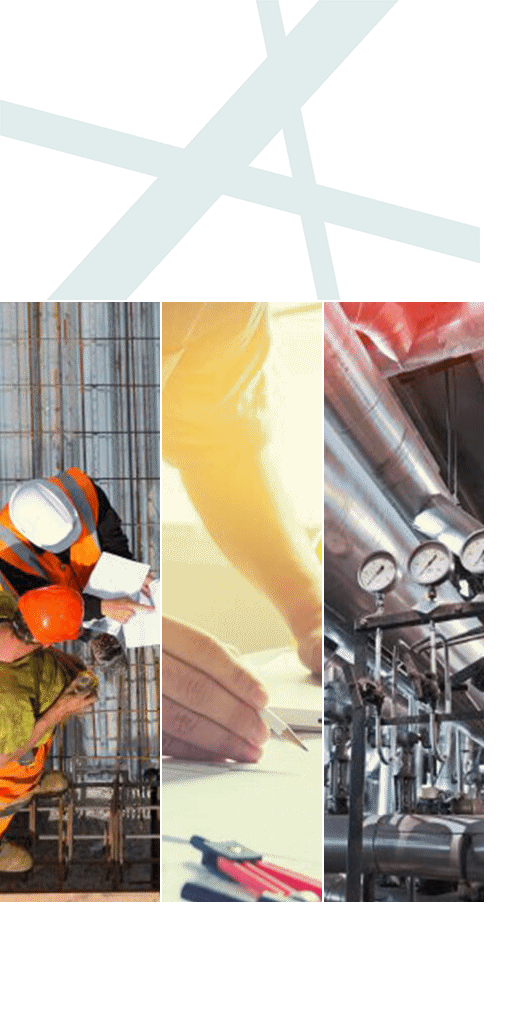
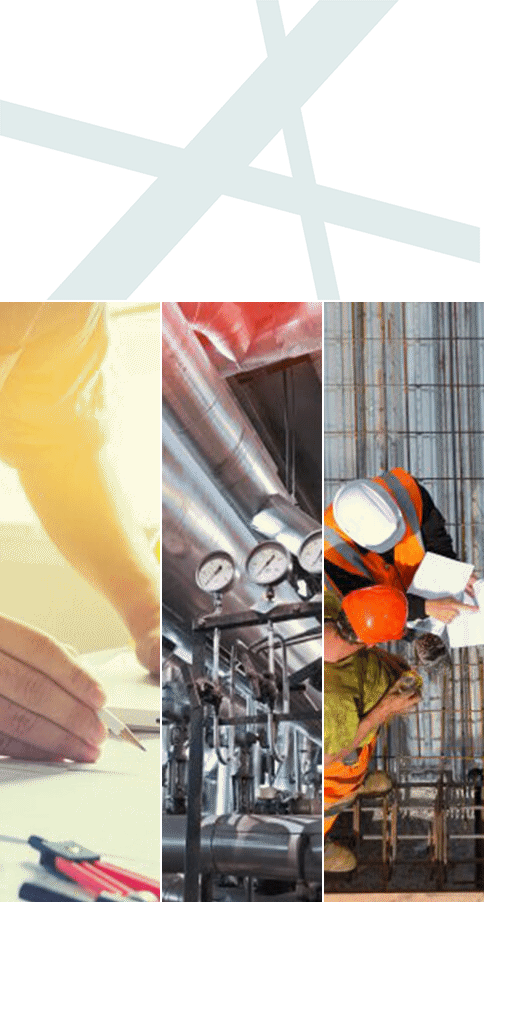
Add files via upload

diff --git a/projector_160x600.js b/projector_160x600.js
@@ -3,7 +3,7 @@
 var p; // shortcut to reference prototypes
 var lib={};var ss={};var img={};
 lib.ssMetadata = [
-		{name:"projector_160x600_atlas_", frames: [[162,302,160,600],[324,302,160,600],[0,302,160,600],[0,0,480,300]]}
+		{name:"projector_160x600_atlas_", frames: [[0,302,160,600],[162,302,160,600],[324,302,160,600],[0,0,480,300]]}
 ];
 
 
@@ -633,6 +633,47 @@ function getMCSymbolPrototype(symbol, nominalBounds, frameBounds) {
 }).prototype = getMCSymbolPrototype(lib.logo, new cjs.Rectangle(-67.7,199.4,86.3,18.3), null);
 
 
+(lib.btn = function(mode,startPosition,loop) {
+	this.initialize(mode,startPosition,loop,{});
+
+	// Layer_1
+	this.shape = new cjs.Shape();
+	this.shape.graphics.f("#FFFFFF").s().p("AAdAwIgJgXIgoAAIgIAXIgQAAIAjhfIATAAIAjBfgAAQALIgQgrIAAAAIgPArIAfAAg");
+	this.shape.setTransform(-53.8,239.4);
+
+	this.shape_1 = new cjs.Shape();
+	this.shape_1.graphics.f("#FFFFFF").s().p("AgPAxIgRgCIAAgNIAfABIALAAIAGgCQACgCABgDIAAgHIAAgIQAAAAAAgBQgBAAAAgBQAAAAgBAAQAAgBAAAAQgCgCgFAAIgXgCQgIgCgFgDQgFgCgCgGQgCgFABgIQAAgMAEgGQAEgHAIgCQAHgCALAAIARABIAOACIAAANIgNgBIgPAAIgKAAIgIACQAAAAgBABQAAAAAAABQgBAAAAABQAAAAAAABIgBAHIABAHQAAABAAAAQAAAAAAABQABAAAAAAQABABAAAAIAIACIAVACQAIABAFACQAEADACAEQACAFABAMQAAANgFAGQgDAHgIABQgHACgLAAg");
+	this.shape_1.setTransform(-65.4,239.4);
+
+	this.shape_2 = new cjs.Shape();
+	this.shape_2.graphics.f("#FFFFFF").s().p("AgHAwIAAhfIAPAAIAABfg");
+	this.shape_2.setTransform(-74.2,239.4);
+
+	this.shape_3 = new cjs.Shape();
+	this.shape_3.graphics.f("#FFFFFF").s().p("AgdAwIAAhfIARAAIAABRIAqAAIAAAOg");
+	this.shape_3.setTransform(-82,239.4);
+
+	this.shape_4 = new cjs.Shape();
+	this.shape_4.graphics.f("#FFFFFF").s().p("AggAwIAAhfIBAAAIAAAOIgvAAIAAAaIApAAIAAAOIgpAAIAAAbIAvAAIAAAOg");
+	this.shape_4.setTransform(-98.3,239.4);
+
+	this.shape_5 = new cjs.Shape();
+	this.shape_5.graphics.f("#FFFFFF").s().p("AgbAtQgIgDgCgKQgDgKAAgWQAAgVADgKQACgKAIgEQAJgEASAAQAUAAAIAEQAIAEACAKQADAKAAAVQAAAWgDAKQgCAKgIADQgIAEgUAAQgSAAgJgEgAgQghQgFACgBAGQgCAIAAARQAAATACAGQABAHAFACQAEABAMAAQANAAAFgBQAEgCABgHQACgGAAgTQAAgRgCgIQgBgGgEgCQgFgCgNABQgMgBgEACg");
+	this.shape_5.setTransform(-110.3,239.4);
+
+	this.shape_6 = new cjs.Shape();
+	this.shape_6.graphics.f("#FFFFFF").s().p("AgcAwIAAhfIAQAAIAABRIApAAIAAAOg");
+	this.shape_6.setTransform(-121,239.4);
+
+	this.shape_7 = new cjs.Shape();
+	this.shape_7.graphics.f("#EA322E").s().p("ApHC2QgEAAAAgHIAAlcQAAgIAEAAISPAAQAFAAgBAIIAAFcQABAHgFAAg");
+	this.shape_7.setTransform(-88.1,239.8);
+
+	this.timeline.addTween(cjs.Tween.get({}).to({state:[{t:this.shape_7},{t:this.shape_6},{t:this.shape_5},{t:this.shape_4},{t:this.shape_3},{t:this.shape_2},{t:this.shape_1},{t:this.shape}]}).wait(1));
+
+}).prototype = getMCSymbolPrototype(lib.btn, new cjs.Rectangle(-147,221.6,117.7,36.4), null);
+
+
 (lib.boxtrans2 = function(mode,startPosition,loop) {
 	this.initialize(mode,startPosition,loop,{});
 
@@ -815,54 +856,63 @@ if (loop == null) { loop = false; }	this.initialize(mode,startPosition,loop,{});
 
 	this.timeline.addTween(cjs.Tween.get(this.instance_7).wait(18).to({_off:false},0).wait(1).to({regX:-68.6,regY:-10.9,x:-354.2,y:10.6,alpha:0.774},0).wait(1).to({x:-313.1,alpha:0.798},0).wait(1).to({x:-274.2,alpha:0.819},0).wait(1).to({x:-237.5,alpha:0.84},0).wait(1).to({x:-203.1,alpha:0.859},0).wait(1).to({x:-170.8,alpha:0.878},0).wait(1).to({x:-140.8,alpha:0.894},0).wait(1).to({x:-113.1,alpha:0.91},0).wait(1).to({x:-87.5,alpha:0.924},0).wait(1).to({x:-64.2,alpha:0.938},0).wait(1).to({x:-43.1,alpha:0.949},0).wait(1).to({x:-24.2,alpha:0.96},0).wait(1).to({x:-7.5,alpha:0.969},0).wait(1).to({x:6.9,alpha:0.978},0).wait(1).to({x:19.1,alpha:0.984},0).wait(1).to({x:29.1,alpha:0.99},0).wait(1).to({x:36.9,alpha:0.994},0).wait(1).to({x:42.5,alpha:0.998},0).wait(1).to({x:45.8,alpha:0.999},0).wait(1).to({regX:0,regY:0,x:115.5,y:21.5,alpha:1},0).wait(57).to({x:-321.4},14,cjs.Ease.get(1)).to({_off:true},1).wait(141));
 
-	// logo
-	this.instance_8 = new lib.logo();
+	// btn
+	this.instance_8 = new lib.btn();
 	this.instance_8.parent = this;
-	this.instance_8.setTransform(121,-20.5,1.601,1.601);
+	this.instance_8.setTransform(-5,236);
 	this.instance_8.alpha = 0;
+	this.instance_8._off = true;
 
-	this.timeline.addTween(cjs.Tween.get(this.instance_8).to({y:224.5,alpha:1},18,cjs.Ease.get(1)).wait(221).to({alpha:0},11).wait(1));
+	this.timeline.addTween(cjs.Tween.get(this.instance_8).wait(9).to({_off:false},0).to({x:170,y:233,alpha:1},10,cjs.Ease.get(1)).wait(220).to({alpha:0},11).wait(1));
+
+	// logo
+	this.instance_9 = new lib.logo();
+	this.instance_9.parent = this;
+	this.instance_9.setTransform(121,-20.5,1.601,1.601);
+	this.instance_9.alpha = 0;
+
+	this.timeline.addTween(cjs.Tween.get(this.instance_9).to({y:224.5,alpha:1},18,cjs.Ease.get(1)).wait(221).to({alpha:0},11).wait(1));
 
 	// Layer_2
-	this.instance_9 = new lib.logobg();
-	this.instance_9.parent = this;
-	this.instance_9.setTransform(49.5,337.5);
+	this.instance_10 = new lib.logobg();
+	this.instance_10.parent = this;
+	this.instance_10.setTransform(49.5,337.5);
 
-	this.timeline.addTween(cjs.Tween.get(this.instance_9).to({_off:true},239).wait(12));
+	this.timeline.addTween(cjs.Tween.get(this.instance_10).to({_off:true},239).wait(12));
 
 	// A
-	this.instance_10 = new lib.A_1();
-	this.instance_10.parent = this;
-	this.instance_10.setTransform(130.8,141.1);
-	this.instance_10.alpha = 0;
+	this.instance_11 = new lib.A_1();
+	this.instance_11.parent = this;
+	this.instance_11.setTransform(130.8,141.1);
+	this.instance_11.alpha = 0;
 
-	this.timeline.addTween(cjs.Tween.get(this.instance_10).wait(1).to({regX:-71,regY:222.4,x:60.4,y:363.5,alpha:0.112},0).wait(1).to({x:60.9,alpha:0.224},0).wait(1).to({x:61.4,alpha:0.336},0).wait(1).to({x:62,alpha:0.448},0).wait(1).to({x:62.5,alpha:0.559},0).wait(1).to({x:63.1,alpha:0.67},0).wait(1).to({x:63.6,alpha:0.78},0).wait(1).to({x:64.2,alpha:0.89},0).wait(1).to({regX:0,regY:0,x:135.7,y:141.1,alpha:1},0).wait(1).to({regX:-71,regY:222.4,x:65.5,y:363.5},0).wait(1).to({x:66.3},0).wait(1).to({x:67},0).wait(1).to({x:67.8},0).wait(1).to({x:68.6},0).wait(1).to({x:69.3},0).wait(1).to({x:70.1},0).wait(1).to({x:70.8},0).wait(1).to({x:71.6},0).wait(1).to({x:72.3},0).wait(1).to({x:73.1},0).wait(1).to({x:73.8},0).wait(1).to({x:74.5},0).wait(1).to({x:75.3},0).wait(1).to({x:76},0).wait(1).to({x:76.7},0).wait(1).to({x:77.5},0).wait(1).to({x:78.2},0).wait(1).to({x:78.9},0).wait(1).to({x:79.6},0).wait(1).to({x:80.3},0).wait(1).to({x:81},0).wait(1).to({x:81.7},0).wait(1).to({x:82.4},0).wait(1).to({x:83.1},0).wait(1).to({x:83.8},0).wait(1).to({x:84.5},0).wait(1).to({x:85.2},0).wait(1).to({x:85.9},0).wait(1).to({x:86.6},0).wait(1).to({x:87.3},0).wait(1).to({x:87.9},0).wait(1).to({x:88.6},0).wait(1).to({x:89.3},0).wait(1).to({x:89.9},0).wait(1).to({x:90.6},0).wait(1).to({x:91.3},0).wait(1).to({x:91.9},0).wait(1).to({x:92.6},0).wait(1).to({x:93.2},0).wait(1).to({x:93.9},0).wait(1).to({x:94.5},0).wait(1).to({x:95.2},0).wait(1).to({x:95.8},0).wait(1).to({x:96.4},0).wait(1).to({x:97.1},0).wait(1).to({x:97.7},0).wait(1).to({x:98.3},0).wait(1).to({x:98.9},0).wait(1).to({x:99.5},0).wait(1).to({x:100.1},0).wait(1).to({x:100.8},0).wait(1).to({x:101.4},0).wait(1).to({x:102},0).wait(1).to({x:102.6},0).wait(1).to({x:103.2},0).wait(1).to({x:103.8},0).wait(1).to({x:104.3},0).wait(1).to({x:104.9},0).wait(1).to({x:105.5},0).wait(1).to({x:106.1},0).wait(1).to({x:106.7},0).wait(1).to({x:107.2},0).wait(1).to({x:107.8},0).wait(1).to({x:108.4},0).wait(1).to({x:108.9},0).wait(1).to({x:109.5},0).wait(1).to({x:110.1},0).wait(1).to({x:110.6},0).wait(1).to({x:111.2},0).wait(1).to({x:111.7},0).wait(1).to({x:112.3},0).wait(1).to({x:112.8},0).wait(1).to({x:113.3},0).wait(1).to({x:113.9},0).wait(1).to({x:114.4},0).wait(1).to({x:114.9},0).wait(1).to({x:115.5},0).wait(1).to({x:116},0).wait(1).to({x:116.5},0).wait(1).to({x:117},0).wait(1).to({x:117.5},0).wait(1).to({x:118},0).wait(1).to({x:118.5},0).wait(1).to({x:119},0).wait(1).to({x:119.5},0).wait(1).to({x:120},0).wait(1).to({x:120.5},0).wait(1).to({x:121},0).wait(1).to({x:121.5},0).wait(1).to({x:122},0).wait(1).to({x:122.4},0).wait(1).to({x:122.9},0).wait(1).to({x:123.4},0).wait(1).to({x:123.9},0).wait(1).to({x:124.3},0).wait(1).to({x:124.8},0).wait(1).to({x:125.2},0).wait(1).to({x:125.7},0).wait(1).to({x:126.2},0).wait(1).to({x:126.6},0).wait(1).to({x:127},0).wait(1).to({x:127.5},0).wait(1).to({x:127.9},0).wait(1).to({x:128.4},0).wait(1).to({x:128.8},0).wait(1).to({x:129.2},0).wait(1).to({x:129.6},0).wait(1).to({x:130.1},0).wait(1).to({x:130.5},0).wait(1).to({x:130.9},0).wait(1).to({x:131.3},0).wait(1).to({x:131.7},0).wait(1).to({x:132.1},0).wait(1).to({x:132.5},0).wait(1).to({x:132.9},0).wait(1).to({x:133.3},0).wait(1).to({x:133.7},0).wait(1).to({x:134.1},0).wait(1).to({x:134.5},0).wait(1).to({x:134.9},0).wait(1).to({x:135.3},0).wait(1).to({x:135.6},0).wait(1).to({x:136},0).wait(1).to({x:136.4},0).wait(1).to({x:136.7},0).wait(1).to({x:137.1},0).wait(1).to({x:137.5},0).wait(1).to({x:137.8},0).wait(1).to({x:138.2},0).wait(1).to({x:138.5},0).wait(1).to({x:138.9},0).wait(1).to({x:139.2},0).wait(1).to({x:139.6},0).wait(1).to({x:139.9},0).wait(1).to({x:140.2},0).wait(1).to({x:140.6},0).wait(1).to({x:140.9},0).wait(1).to({x:141.2},0).wait(1).to({x:141.5},0).wait(1).to({x:141.8},0).wait(1).to({x:142.2},0).wait(1).to({x:142.5},0).wait(1).to({x:142.8},0).wait(1).to({x:143.1},0).wait(1).to({x:143.4},0).wait(1).to({x:143.7},0).wait(1).to({x:144},0).wait(1).to({x:144.3},0).wait(1).to({x:144.6},0).wait(1).to({x:144.8},0).wait(1).to({x:145.1},0).wait(1).to({x:145.4},0).wait(1).to({x:145.7},0).wait(1).to({x:145.9},0).wait(1).to({x:146.2},0).wait(1).to({x:146.5},0).wait(1).to({x:146.7},0).wait(1).to({x:147},0).wait(1).to({x:147.2},0).wait(1).to({x:147.5},0).wait(1).to({x:147.7},0).wait(1).to({x:148},0).wait(1).to({x:148.2},0).wait(1).to({x:148.5},0).wait(1).to({x:148.7},0).wait(1).to({x:148.9},0).wait(1).to({x:149.2},0).wait(1).to({x:149.4},0).wait(1).to({x:149.6},0).wait(1).to({x:149.8},0).wait(1).to({x:150},0).wait(1).to({x:150.3},0).wait(1).to({x:150.5},0).wait(1).to({x:150.7},0).wait(1).to({x:150.9},0).wait(1).to({x:151.1},0).wait(1).to({x:151.3},0).wait(1).to({x:151.5},0).wait(1).to({x:151.6},0).wait(1).to({x:151.8},0).wait(1).to({x:152},0).wait(1).to({x:152.2},0).wait(1).to({x:152.4},0).wait(1).to({x:152.5},0).wait(1).to({x:152.7},0).wait(1).to({x:152.9},0).wait(1).to({x:153},0).wait(1).to({x:153.2},0).wait(1).to({x:153.4},0).wait(1).to({x:153.5},0).wait(1).to({x:153.7},0).wait(1).to({x:153.8},0).wait(1).to({x:153.9},0).wait(1).to({x:154.1},0).wait(1).to({x:154.2},0).wait(1).to({x:154.4},0).wait(1).to({x:154.5},0).wait(1).to({x:154.6},0).wait(1).to({x:154.7},0).wait(1).to({x:154.9},0).wait(1).to({x:155},0).wait(1).to({x:155.1},0).wait(1).to({x:155.2},0).wait(1).to({x:155.3},0).wait(1).to({x:155.4},0).wait(1).to({x:155.5},0).wait(1).to({x:155.6},0).wait(1).to({x:155.7},0).wait(1).to({x:155.8},0).wait(1).to({x:155.9},0).wait(1).to({x:156},0).wait(2).to({x:156.1},0).wait(1).to({x:156.2},0).wait(1).to({x:156.3},0).wait(2).to({x:156.4},0).wait(2).to({x:156.5},0).wait(1).to({x:156.6},0).wait(2).to({x:156.7},0).wait(3).to({x:156.8},0).wait(3).to({x:156.9},0).wait(1).to({regX:0,regY:0,x:227.9,y:141.1},0).wait(1).to({regX:-71,regY:222.4,x:156.9,y:363.5,alpha:0.826},0).wait(1).to({alpha:0.669},0).wait(1).to({alpha:0.529},0).wait(1).to({x:157,alpha:0.405},0).wait(1).to({alpha:0.298},0).wait(1).to({alpha:0.207},0).wait(1).to({alpha:0.132},0).wait(1).to({alpha:0.074},0).wait(1).to({alpha:0.033},0).wait(1).to({alpha:0.008},0).wait(1).to({regX:0,regY:0,x:228,y:141.1,alpha:0},0).wait(1));
+	this.timeline.addTween(cjs.Tween.get(this.instance_11).wait(1).to({regX:-71,regY:222.4,x:60.4,y:363.5,alpha:0.112},0).wait(1).to({x:60.9,alpha:0.224},0).wait(1).to({x:61.4,alpha:0.336},0).wait(1).to({x:62,alpha:0.448},0).wait(1).to({x:62.5,alpha:0.559},0).wait(1).to({x:63.1,alpha:0.67},0).wait(1).to({x:63.6,alpha:0.78},0).wait(1).to({x:64.2,alpha:0.89},0).wait(1).to({regX:0,regY:0,x:135.7,y:141.1,alpha:1},0).wait(1).to({regX:-71,regY:222.4,x:65.5,y:363.5},0).wait(1).to({x:66.3},0).wait(1).to({x:67},0).wait(1).to({x:67.8},0).wait(1).to({x:68.6},0).wait(1).to({x:69.3},0).wait(1).to({x:70.1},0).wait(1).to({x:70.8},0).wait(1).to({x:71.6},0).wait(1).to({x:72.3},0).wait(1).to({x:73.1},0).wait(1).to({x:73.8},0).wait(1).to({x:74.5},0).wait(1).to({x:75.3},0).wait(1).to({x:76},0).wait(1).to({x:76.7},0).wait(1).to({x:77.5},0).wait(1).to({x:78.2},0).wait(1).to({x:78.9},0).wait(1).to({x:79.6},0).wait(1).to({x:80.3},0).wait(1).to({x:81},0).wait(1).to({x:81.7},0).wait(1).to({x:82.4},0).wait(1).to({x:83.1},0).wait(1).to({x:83.8},0).wait(1).to({x:84.5},0).wait(1).to({x:85.2},0).wait(1).to({x:85.9},0).wait(1).to({x:86.6},0).wait(1).to({x:87.3},0).wait(1).to({x:87.9},0).wait(1).to({x:88.6},0).wait(1).to({x:89.3},0).wait(1).to({x:89.9},0).wait(1).to({x:90.6},0).wait(1).to({x:91.3},0).wait(1).to({x:91.9},0).wait(1).to({x:92.6},0).wait(1).to({x:93.2},0).wait(1).to({x:93.9},0).wait(1).to({x:94.5},0).wait(1).to({x:95.2},0).wait(1).to({x:95.8},0).wait(1).to({x:96.4},0).wait(1).to({x:97.1},0).wait(1).to({x:97.7},0).wait(1).to({x:98.3},0).wait(1).to({x:98.9},0).wait(1).to({x:99.5},0).wait(1).to({x:100.1},0).wait(1).to({x:100.8},0).wait(1).to({x:101.4},0).wait(1).to({x:102},0).wait(1).to({x:102.6},0).wait(1).to({x:103.2},0).wait(1).to({x:103.8},0).wait(1).to({x:104.3},0).wait(1).to({x:104.9},0).wait(1).to({x:105.5},0).wait(1).to({x:106.1},0).wait(1).to({x:106.7},0).wait(1).to({x:107.2},0).wait(1).to({x:107.8},0).wait(1).to({x:108.4},0).wait(1).to({x:108.9},0).wait(1).to({x:109.5},0).wait(1).to({x:110.1},0).wait(1).to({x:110.6},0).wait(1).to({x:111.2},0).wait(1).to({x:111.7},0).wait(1).to({x:112.3},0).wait(1).to({x:112.8},0).wait(1).to({x:113.3},0).wait(1).to({x:113.9},0).wait(1).to({x:114.4},0).wait(1).to({x:114.9},0).wait(1).to({x:115.5},0).wait(1).to({x:116},0).wait(1).to({x:116.5},0).wait(1).to({x:117},0).wait(1).to({x:117.5},0).wait(1).to({x:118},0).wait(1).to({x:118.5},0).wait(1).to({x:119},0).wait(1).to({x:119.5},0).wait(1).to({x:120},0).wait(1).to({x:120.5},0).wait(1).to({x:121},0).wait(1).to({x:121.5},0).wait(1).to({x:122},0).wait(1).to({x:122.4},0).wait(1).to({x:122.9},0).wait(1).to({x:123.4},0).wait(1).to({x:123.9},0).wait(1).to({x:124.3},0).wait(1).to({x:124.8},0).wait(1).to({x:125.2},0).wait(1).to({x:125.7},0).wait(1).to({x:126.2},0).wait(1).to({x:126.6},0).wait(1).to({x:127},0).wait(1).to({x:127.5},0).wait(1).to({x:127.9},0).wait(1).to({x:128.4},0).wait(1).to({x:128.8},0).wait(1).to({x:129.2},0).wait(1).to({x:129.6},0).wait(1).to({x:130.1},0).wait(1).to({x:130.5},0).wait(1).to({x:130.9},0).wait(1).to({x:131.3},0).wait(1).to({x:131.7},0).wait(1).to({x:132.1},0).wait(1).to({x:132.5},0).wait(1).to({x:132.9},0).wait(1).to({x:133.3},0).wait(1).to({x:133.7},0).wait(1).to({x:134.1},0).wait(1).to({x:134.5},0).wait(1).to({x:134.9},0).wait(1).to({x:135.3},0).wait(1).to({x:135.6},0).wait(1).to({x:136},0).wait(1).to({x:136.4},0).wait(1).to({x:136.7},0).wait(1).to({x:137.1},0).wait(1).to({x:137.5},0).wait(1).to({x:137.8},0).wait(1).to({x:138.2},0).wait(1).to({x:138.5},0).wait(1).to({x:138.9},0).wait(1).to({x:139.2},0).wait(1).to({x:139.6},0).wait(1).to({x:139.9},0).wait(1).to({x:140.2},0).wait(1).to({x:140.6},0).wait(1).to({x:140.9},0).wait(1).to({x:141.2},0).wait(1).to({x:141.5},0).wait(1).to({x:141.8},0).wait(1).to({x:142.2},0).wait(1).to({x:142.5},0).wait(1).to({x:142.8},0).wait(1).to({x:143.1},0).wait(1).to({x:143.4},0).wait(1).to({x:143.7},0).wait(1).to({x:144},0).wait(1).to({x:144.3},0).wait(1).to({x:144.6},0).wait(1).to({x:144.8},0).wait(1).to({x:145.1},0).wait(1).to({x:145.4},0).wait(1).to({x:145.7},0).wait(1).to({x:145.9},0).wait(1).to({x:146.2},0).wait(1).to({x:146.5},0).wait(1).to({x:146.7},0).wait(1).to({x:147},0).wait(1).to({x:147.2},0).wait(1).to({x:147.5},0).wait(1).to({x:147.7},0).wait(1).to({x:148},0).wait(1).to({x:148.2},0).wait(1).to({x:148.5},0).wait(1).to({x:148.7},0).wait(1).to({x:148.9},0).wait(1).to({x:149.2},0).wait(1).to({x:149.4},0).wait(1).to({x:149.6},0).wait(1).to({x:149.8},0).wait(1).to({x:150},0).wait(1).to({x:150.3},0).wait(1).to({x:150.5},0).wait(1).to({x:150.7},0).wait(1).to({x:150.9},0).wait(1).to({x:151.1},0).wait(1).to({x:151.3},0).wait(1).to({x:151.5},0).wait(1).to({x:151.6},0).wait(1).to({x:151.8},0).wait(1).to({x:152},0).wait(1).to({x:152.2},0).wait(1).to({x:152.4},0).wait(1).to({x:152.5},0).wait(1).to({x:152.7},0).wait(1).to({x:152.9},0).wait(1).to({x:153},0).wait(1).to({x:153.2},0).wait(1).to({x:153.4},0).wait(1).to({x:153.5},0).wait(1).to({x:153.7},0).wait(1).to({x:153.8},0).wait(1).to({x:153.9},0).wait(1).to({x:154.1},0).wait(1).to({x:154.2},0).wait(1).to({x:154.4},0).wait(1).to({x:154.5},0).wait(1).to({x:154.6},0).wait(1).to({x:154.7},0).wait(1).to({x:154.9},0).wait(1).to({x:155},0).wait(1).to({x:155.1},0).wait(1).to({x:155.2},0).wait(1).to({x:155.3},0).wait(1).to({x:155.4},0).wait(1).to({x:155.5},0).wait(1).to({x:155.6},0).wait(1).to({x:155.7},0).wait(1).to({x:155.8},0).wait(1).to({x:155.9},0).wait(1).to({x:156},0).wait(2).to({x:156.1},0).wait(1).to({x:156.2},0).wait(1).to({x:156.3},0).wait(2).to({x:156.4},0).wait(2).to({x:156.5},0).wait(1).to({x:156.6},0).wait(2).to({x:156.7},0).wait(3).to({x:156.8},0).wait(3).to({x:156.9},0).wait(1).to({regX:0,regY:0,x:227.9,y:141.1},0).wait(1).to({regX:-71,regY:222.4,x:156.9,y:363.5,alpha:0.826},0).wait(1).to({alpha:0.669},0).wait(1).to({alpha:0.529},0).wait(1).to({x:157,alpha:0.405},0).wait(1).to({alpha:0.298},0).wait(1).to({alpha:0.207},0).wait(1).to({alpha:0.132},0).wait(1).to({alpha:0.074},0).wait(1).to({alpha:0.033},0).wait(1).to({alpha:0.008},0).wait(1).to({regX:0,regY:0,x:228,y:141.1,alpha:0},0).wait(1));
 
 	// Layer_3
-	this.instance_11 = new lib.bg2();
-	this.instance_11.parent = this;
-	this.instance_11.setTransform(168,140);
-	this.instance_11.alpha = 0;
-	this.instance_11._off = true;
-
-	this.timeline.addTween(cjs.Tween.get(this.instance_11).wait(195).to({_off:false},0).to({alpha:1},10).wait(34).to({alpha:0},11).wait(1));
-
-	// Layer_4
-	this.instance_12 = new lib.bg3();
+	this.instance_12 = new lib.bg2();
 	this.instance_12.parent = this;
-	this.instance_12.setTransform(507,140);
+	this.instance_12.setTransform(168,140);
 	this.instance_12.alpha = 0;
 	this.instance_12._off = true;
 
-	this.timeline.addTween(cjs.Tween.get(this.instance_12).wait(99).to({_off:false},0).to({x:168,alpha:1},10,cjs.Ease.get(1)).wait(86).to({x:-173,alpha:0},10,cjs.Ease.get(1)).to({_off:true},1).wait(45));
+	this.timeline.addTween(cjs.Tween.get(this.instance_12).wait(195).to({_off:false},0).to({alpha:1},10).wait(34).to({alpha:0},11).wait(1));
+
+	// Layer_4
+	this.instance_13 = new lib.bg3();
+	this.instance_13.parent = this;
+	this.instance_13.setTransform(507,140);
+	this.instance_13.alpha = 0;
+	this.instance_13._off = true;
+
+	this.timeline.addTween(cjs.Tween.get(this.instance_13).wait(99).to({_off:false},0).to({x:168,alpha:1},10,cjs.Ease.get(1)).wait(86).to({x:-173,alpha:0},10,cjs.Ease.get(1)).to({_off:true},1).wait(45));
 
 	// Layer_1
-	this.instance_13 = new lib.bg1();
-	this.instance_13.parent = this;
-	this.instance_13.setTransform(168,140);
-	this.instance_13.alpha = 0;
+	this.instance_14 = new lib.bg1();
+	this.instance_14.parent = this;
+	this.instance_14.setTransform(168,140);
+	this.instance_14.alpha = 0;
 
-	this.timeline.addTween(cjs.Tween.get(this.instance_13).to({alpha:1},18).wait(81).to({alpha:0},10).to({_off:true},1).wait(141));
+	this.timeline.addTween(cjs.Tween.get(this.instance_14).to({alpha:1},18).wait(81).to({alpha:0},10).to({_off:true},1).wait(141));
 
 }).prototype = p = new cjs.MovieClip();
 p.nominalBounds = new cjs.Rectangle(-139.2,300,558,797);
